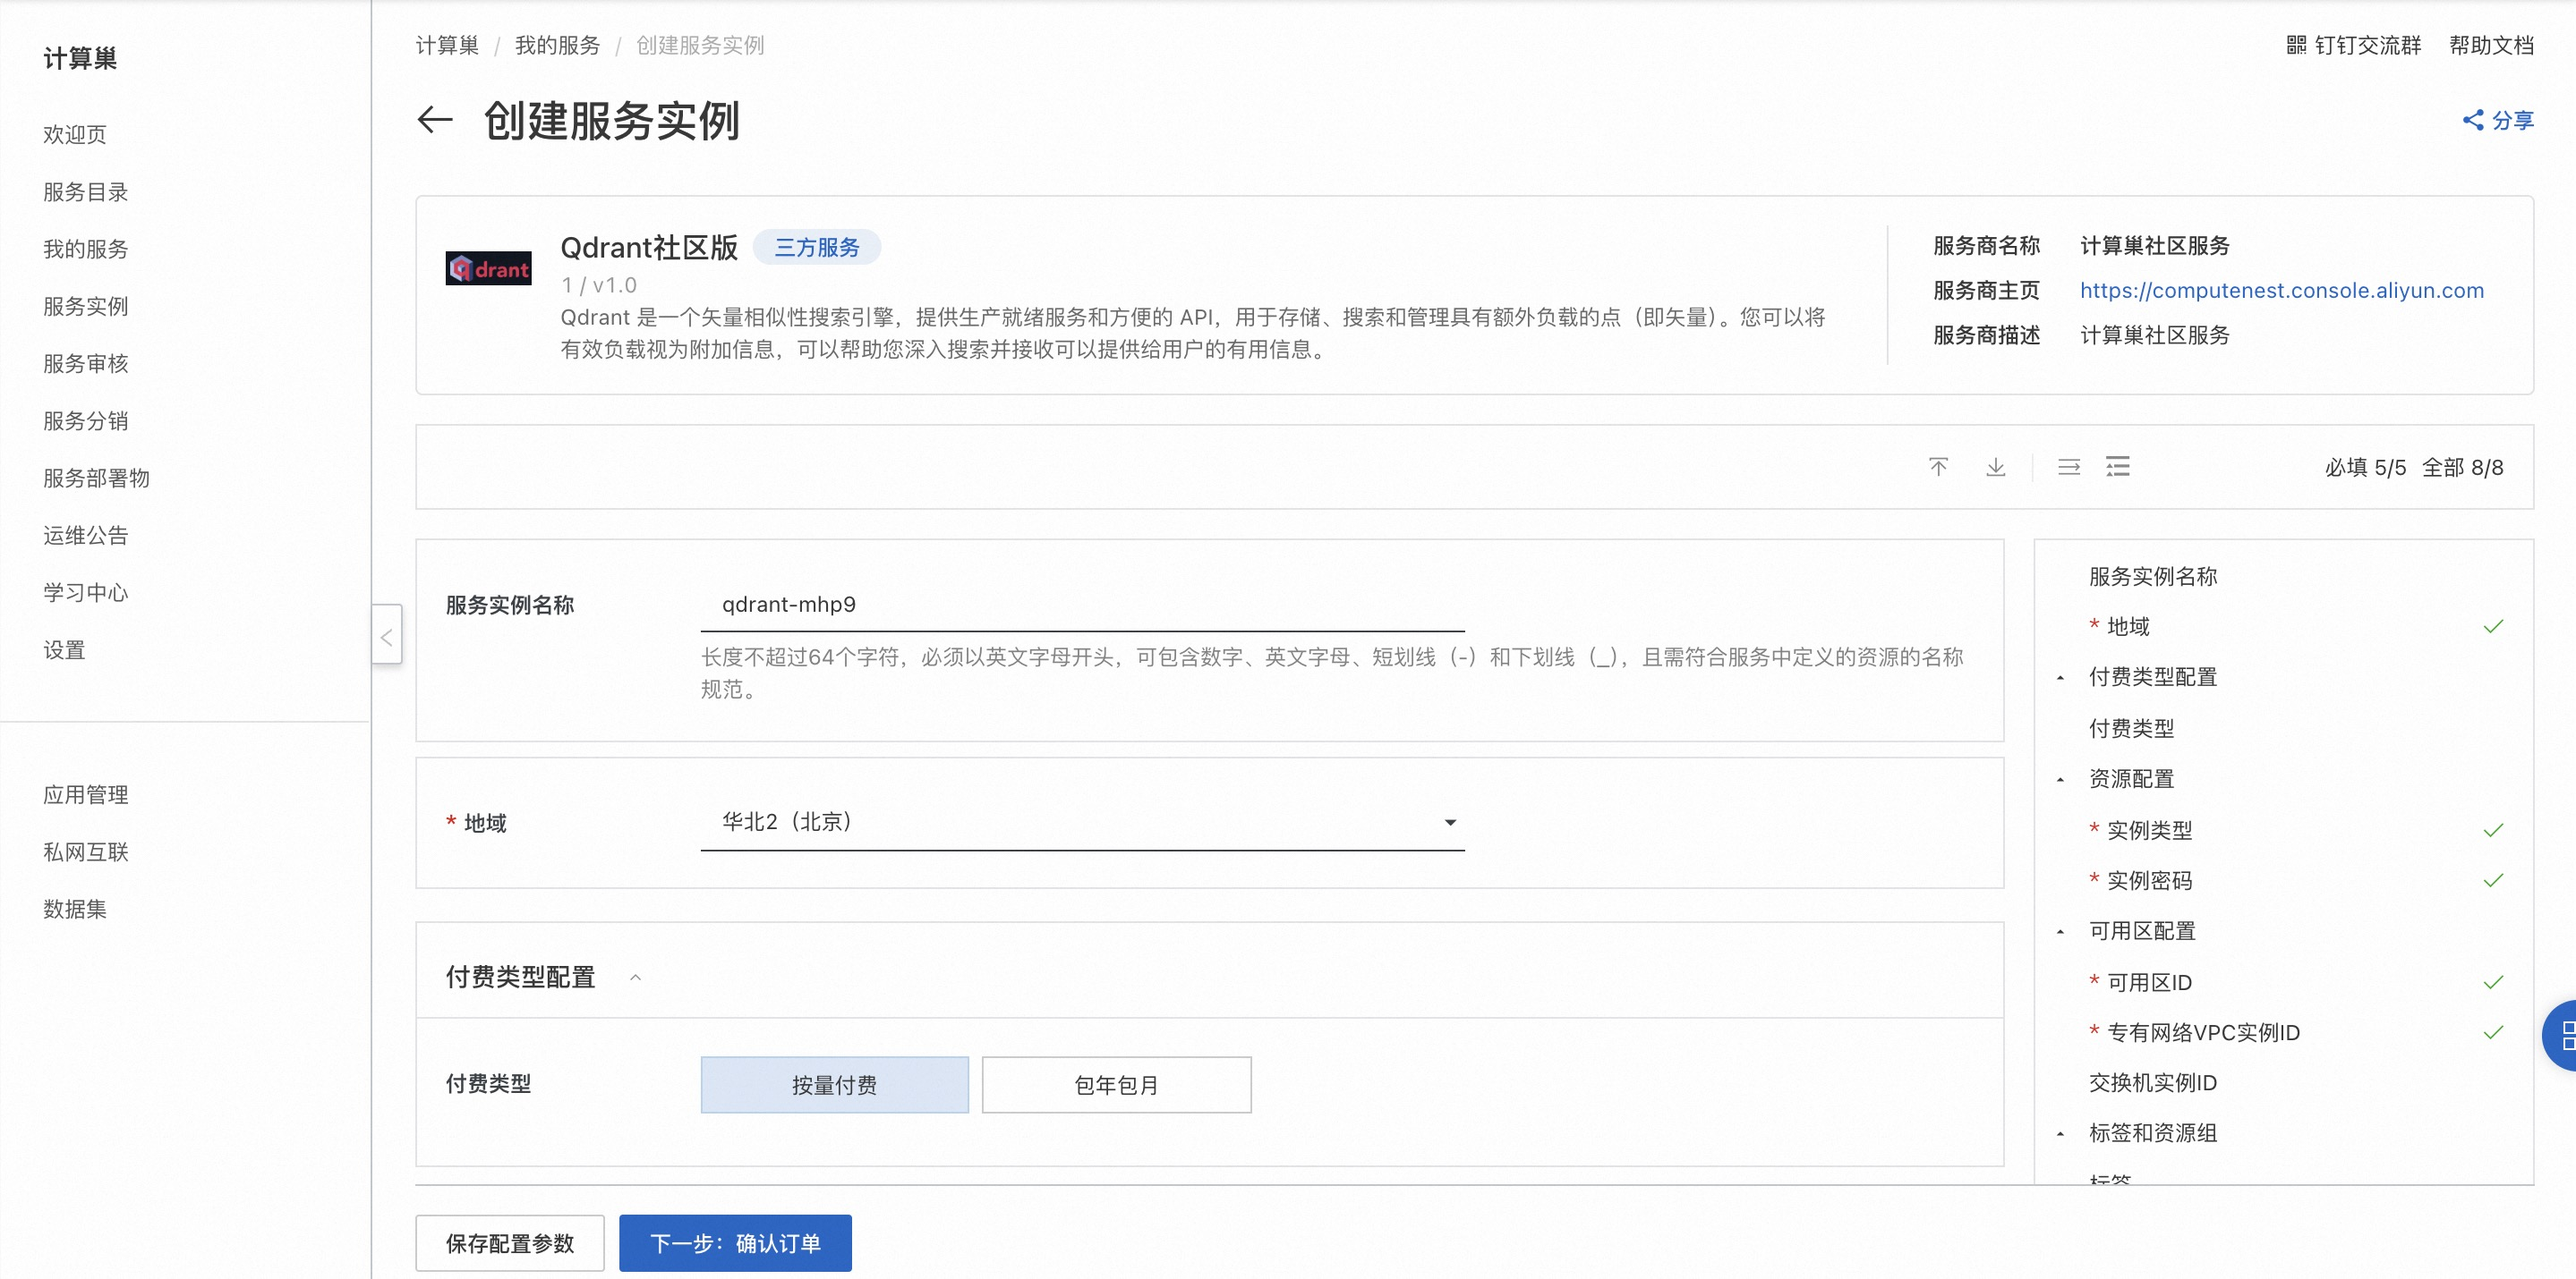
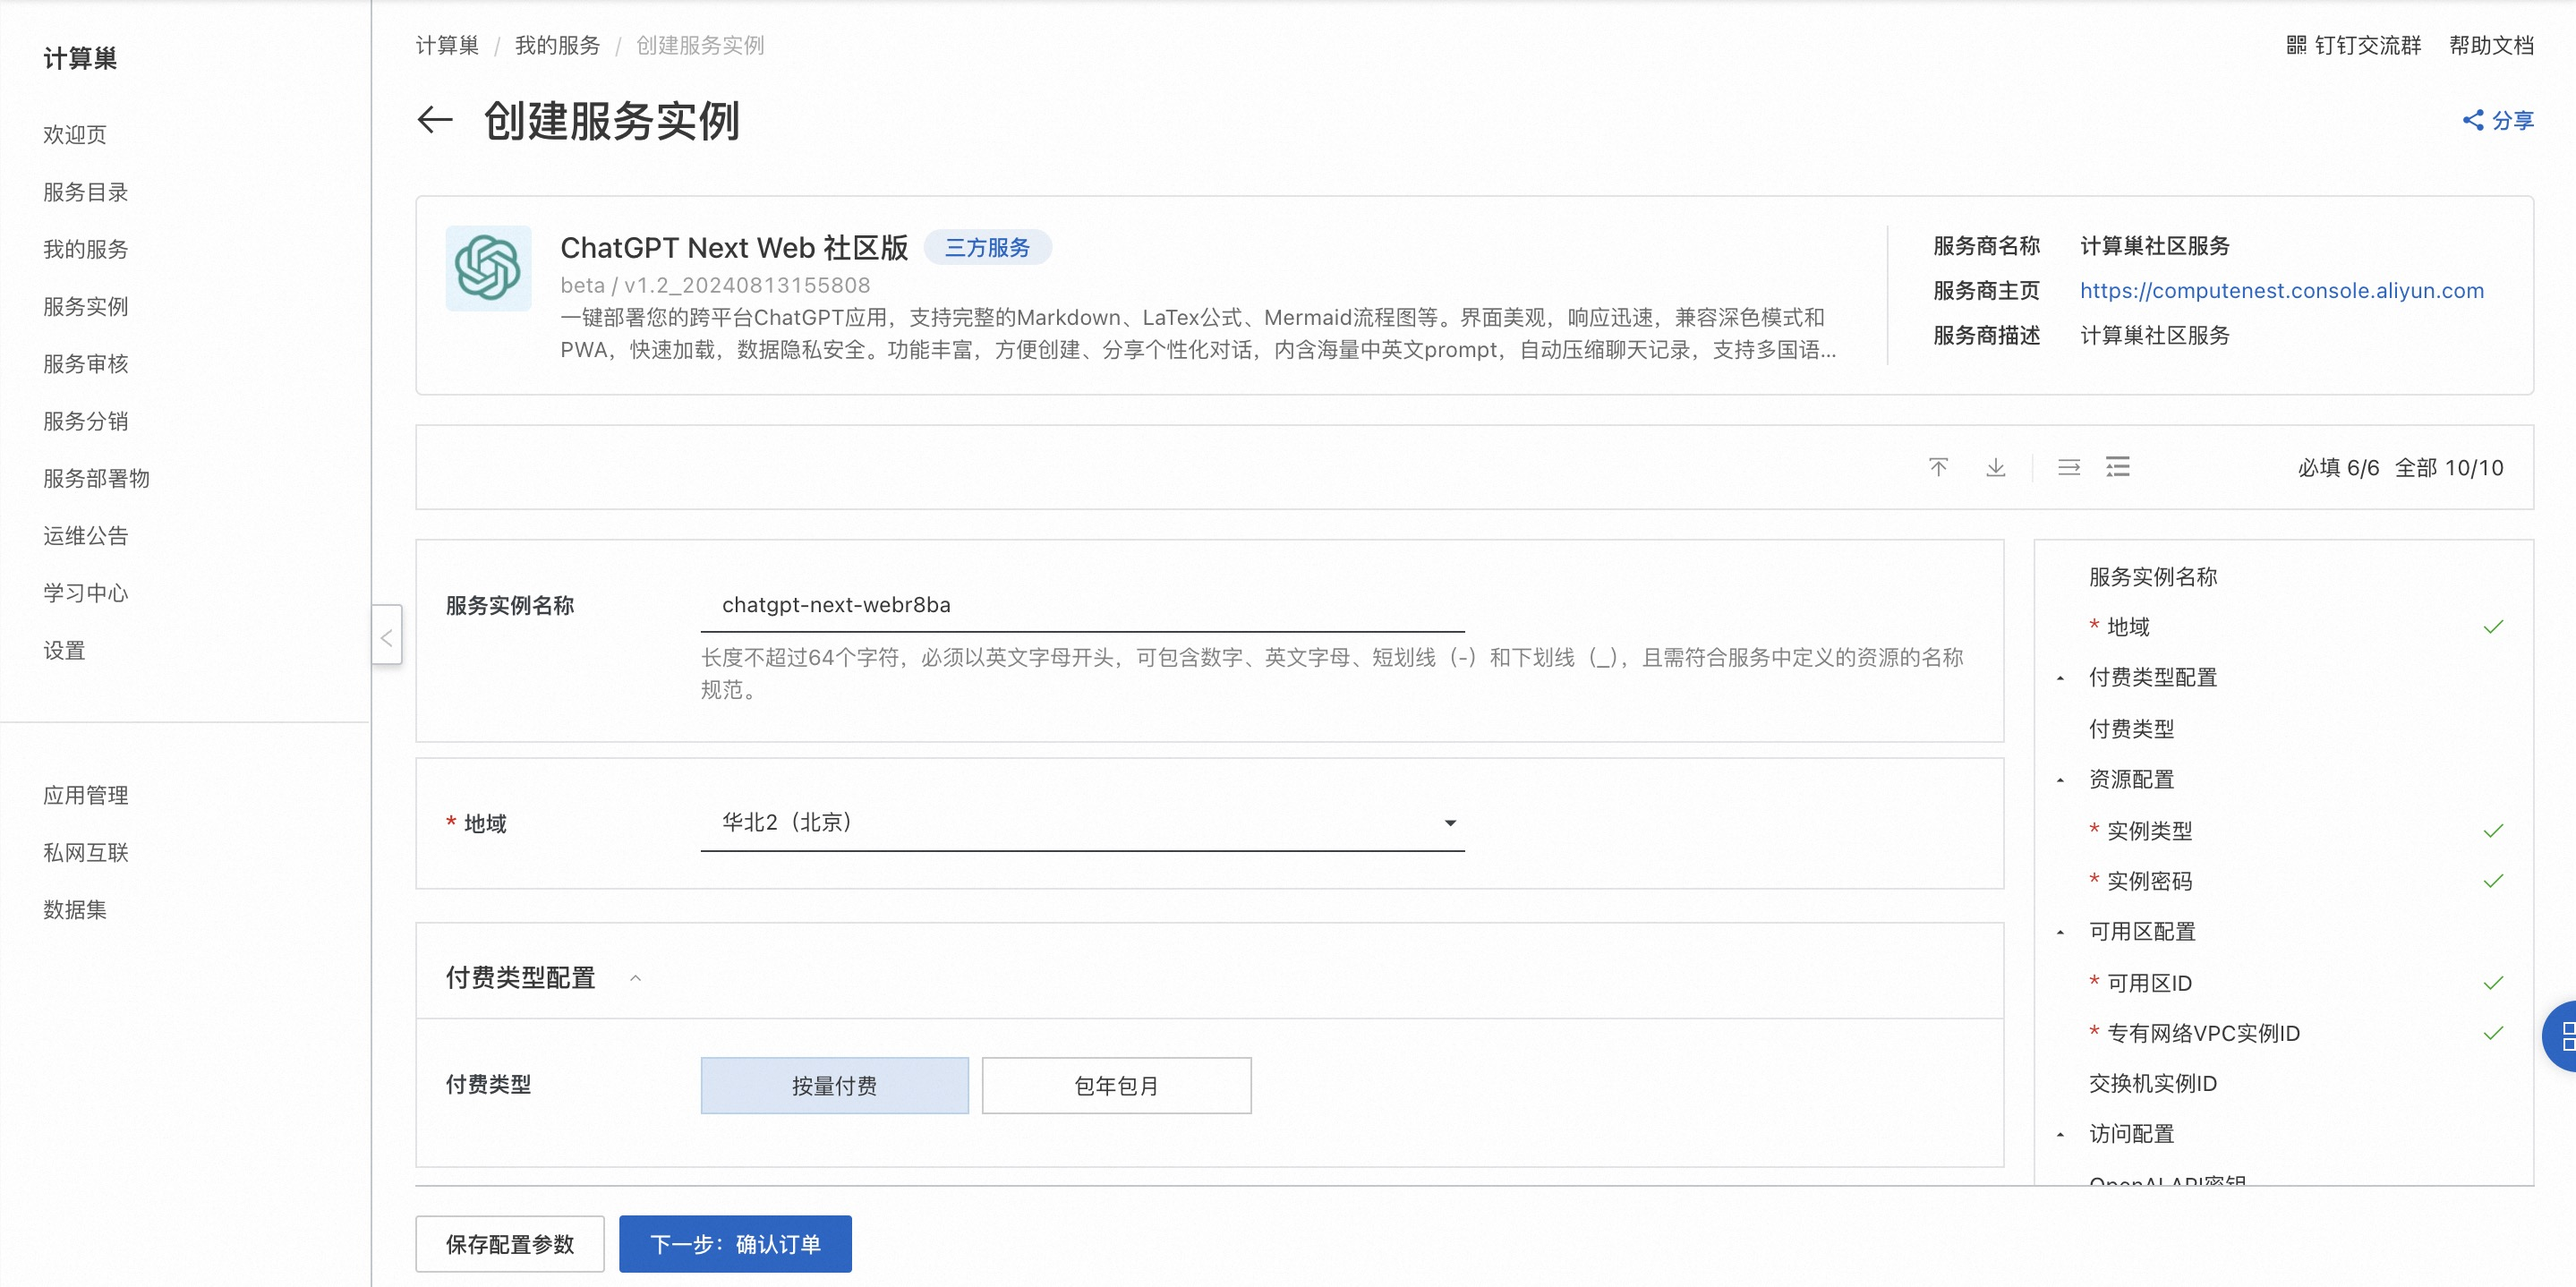
add doc

diff --git a/docs/index.md b/docs/index.md
@@ -1,20 +1,17 @@
-# Qdrant 社区版快速部署
-
+# ChatGPT Next Web 社区版快速部署
 
 ## 概述
-Qdrant“是一个矢量相似性搜索引擎，提供生产就绪服务和方便的 API，用于存储、搜索和管理具有额外负载的点（即矢量）。”您可以将有效负载视为附加信息，可以帮助您深入搜索并接收可以提供给用户的有用信息。详情请查看[Qdrant官网](https://qdrant.tech/documentation/overview/)。
-
+一键部署您的跨平台ChatGPT应用，支持完整的Markdown、LaTex公式、Mermaid流程图等。界面美观，响应迅速，兼容深色模式和PWA，快速加载，数据隐私安全。功能丰富，方便创建、分享个性化对话，内含海量中英文prompt，自动压缩聊天记录，支持多国语言。。详情请查看[ChatGPT Next Web官网](https://github.com/ChatGPTNextWeb/ChatGPT-Next-Web)。
 
 ## 计费说明
-Qdrant 社区版上的费用主要涉及：
+ChatGPT Next Web 社区版上的费用主要涉及：
 
 - 所选vCPU与内存规格
 - 系统盘类型及容量
 - 公网带宽
 
-
 ## RAM账号所需权限
-部署Qdrant 社区版，需要对部分阿里云资源进行访问和创建操作。因此您的账号需要包含如下资源的权限。
+部署ChatGPT Next Web 社区版，需要对部分阿里云资源进行访问和创建操作。因此您的账号需要包含如下资源的权限。
   **说明**：当您的账号是RAM账号时，才需要添加此权限。
 
 | 权限策略名称                          | 备注                                 |
@@ -25,14 +22,13 @@ Qdrant 社区版上的费用主要涉及：
 | AliyunComputeNestUserFullAccess | 管理计算巢服务（ComputeNest）的用户侧权限         |
 
 ## 部署流程
-
-1.访问Qdrant 社区版服务[部署链接](https://computenest.console.aliyun.com/service/instance/create/cn-hangzhou?type=user&ServiceId=service-eeb5dfd73a414b6e849c)
+1.访问ChatGPT Next Web 社区版服务[部署链接](https://computenest.console.aliyun.com/service/instance/create/cn-hangzhou?type=user&ServiceId=service-f1c9b75e59814dc49d52)
 ，按提示填写部署参数：
 ![image.png](1.jpg)
 
 2.参数填写完成后可以看到对应询价明细，确认参数后点击**下一步：确认订单**。 确认订单完成后同意服务协议并点击**立即创建**进入部署阶段。
 
-4.等待部署完成后进入服务实例管理, 在控制台找到Qdrant服务访问链接。
+4.等待部署完成后进入服务实例管理, 在控制台找到ChatGPT Next Web服务访问链接。
 ![image.png](2.jpg)
 
 5.单击链接访问服务。
